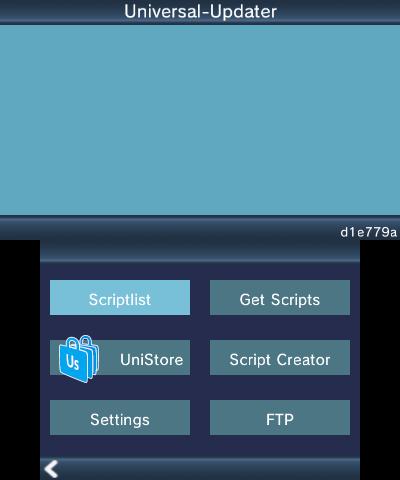
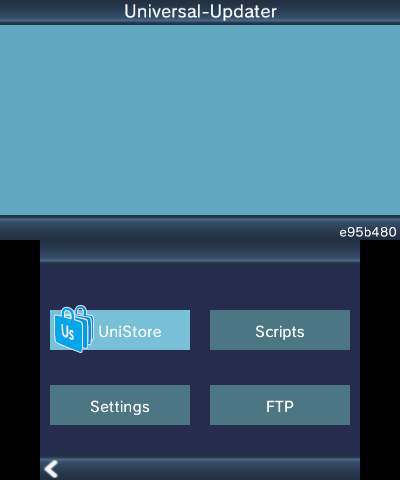
Update images. Pk11, feel free to make the code better. ;)

Changed region(s): [[0.51, 0.5625, 0.9, 0.9062], [0.12, 0.5625, 0.48, 0.9062], [0.84, 0.4688, 0.99, 0.5]]

diff --git a/projects/unistore.html b/projects/unistore.html
@@ -101,16 +101,27 @@
 			<p></p>
 			<h5>Then you will see a button called "UniStore". Basically with that you access the Screen.</h5>
 			<p></p>
-			<h5>You need at least one ".unistore" file at "sdmc:/3ds/Universal-Updater/stores/", otherwise it won't let you access it.</h5>
-			<p></p>
-			<h5>You can also change the store path in the Universal-Updater settings on the second page! (Just press R)</h5>
+			<h5>You will be redirected to the SubMenu then.</h5>
 			<hr>
 			<h2>Screenshots</h2>
-			<img src="../images/unistore/mainMenu.png" alt="MainMenu" height="330" widht="200">
-			<img src="../images/unistore/storeSelection.png" alt="Store Selection" height="330" widht="200">
-			<img src="../images/unistore/store.png" alt="Store" height="330" widht="200">
-			<img src="../images/unistore/storeSearch.png" alt="Store Search" height="330" widht="200">
+			<img src="../images/unistore/mainMenu.png" alt="MainMenu" height="400" widht="240">
+			<img src="../images/unistore/subMenu.png" alt="Sub Menu" height="400" widht="240">
+			<img src="../images/unistore/storeSelection.png" alt="Store Selection" height="400" widht="240">
+			<img src="../images/unistore/store.png" alt="Store" height="400" widht="240">
+			<img src="../images/unistore/storeSearch.png" alt="Store Search" height="400" widht="240">
+			<img src="../images/unistore/storeChange.png" alt="Store Change" height="400" widht="240">
 			<ul>
+			<hr>
+			<h2>Testing out the Store Search GitHub Function!</h2>
+			<h5>Currently there are 2 stores which can be tested with this function.</h5>
+			<p></p>
+			<h5>If you like to make your store dowloadable with this too, create a folder called "unistore" inside your repo and include a unistore file there.</h5>
+			<p></p>
+			<h5>Those 2 stores are from FlameKat53 and SuperSaiyajinStackZ:</h5>
+			<p></p>
+			<h5>Owner & Repo: "SuperSaiyajinStackZ/Stack-Store", Filename: "Stack-Store.unistore"</h5>
+			<p></p>
+			<h5>Owner & Repo: "FlameKat53/storefront", Filename: "storefront.unistore"</h5>
 			</div>
 		</div>
 	</main>
